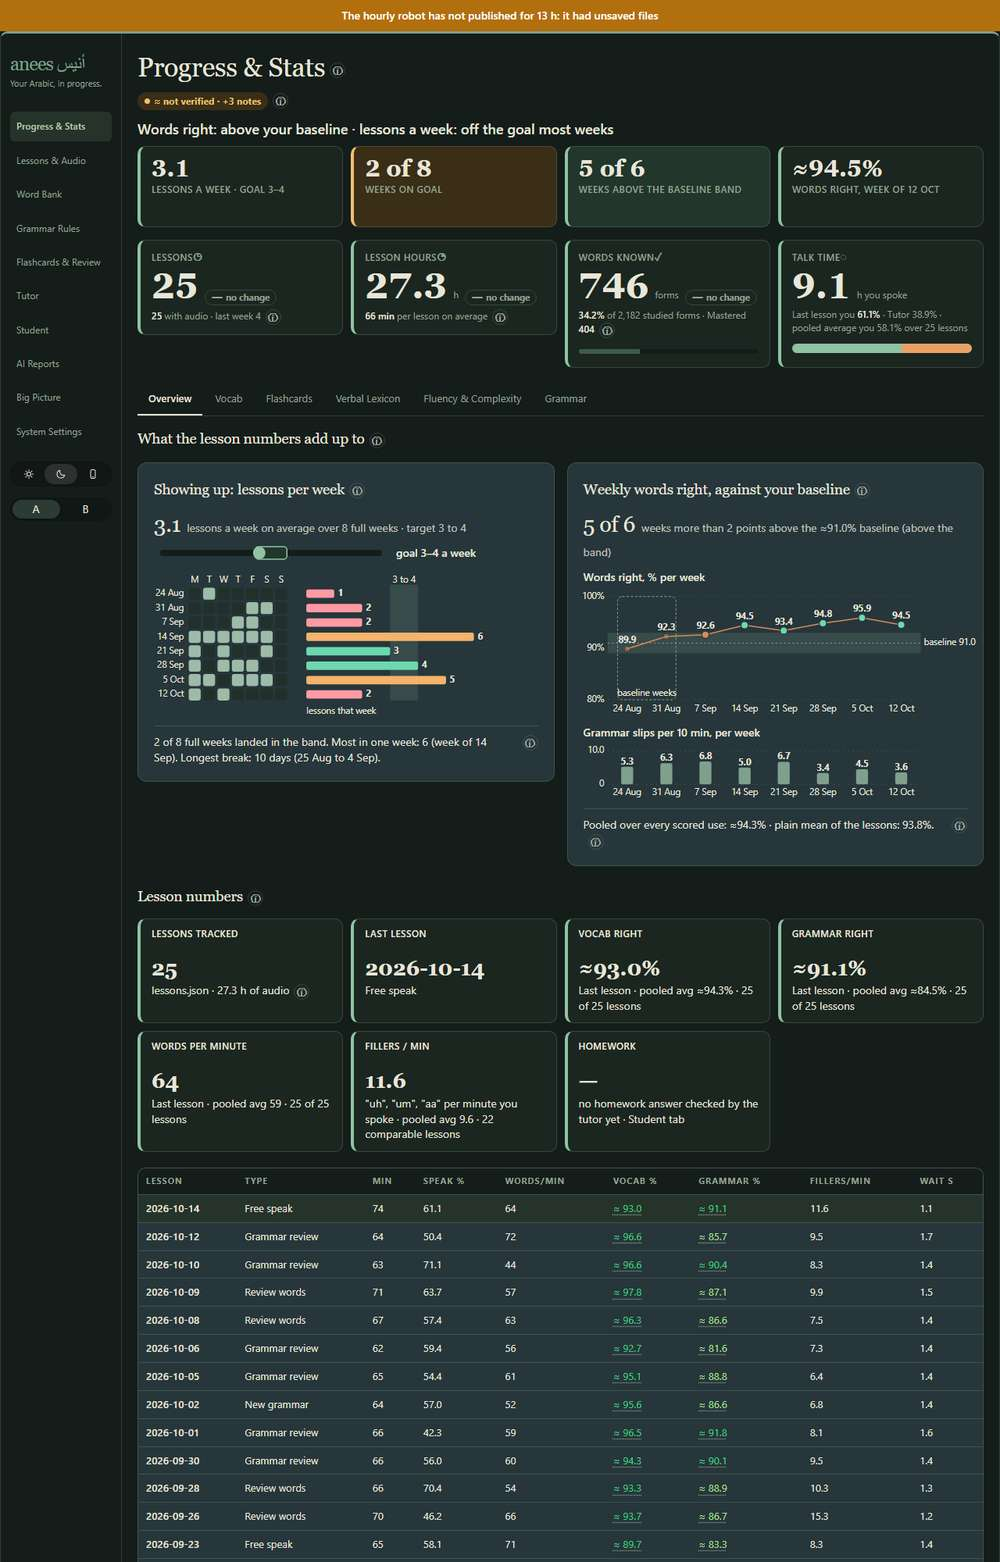
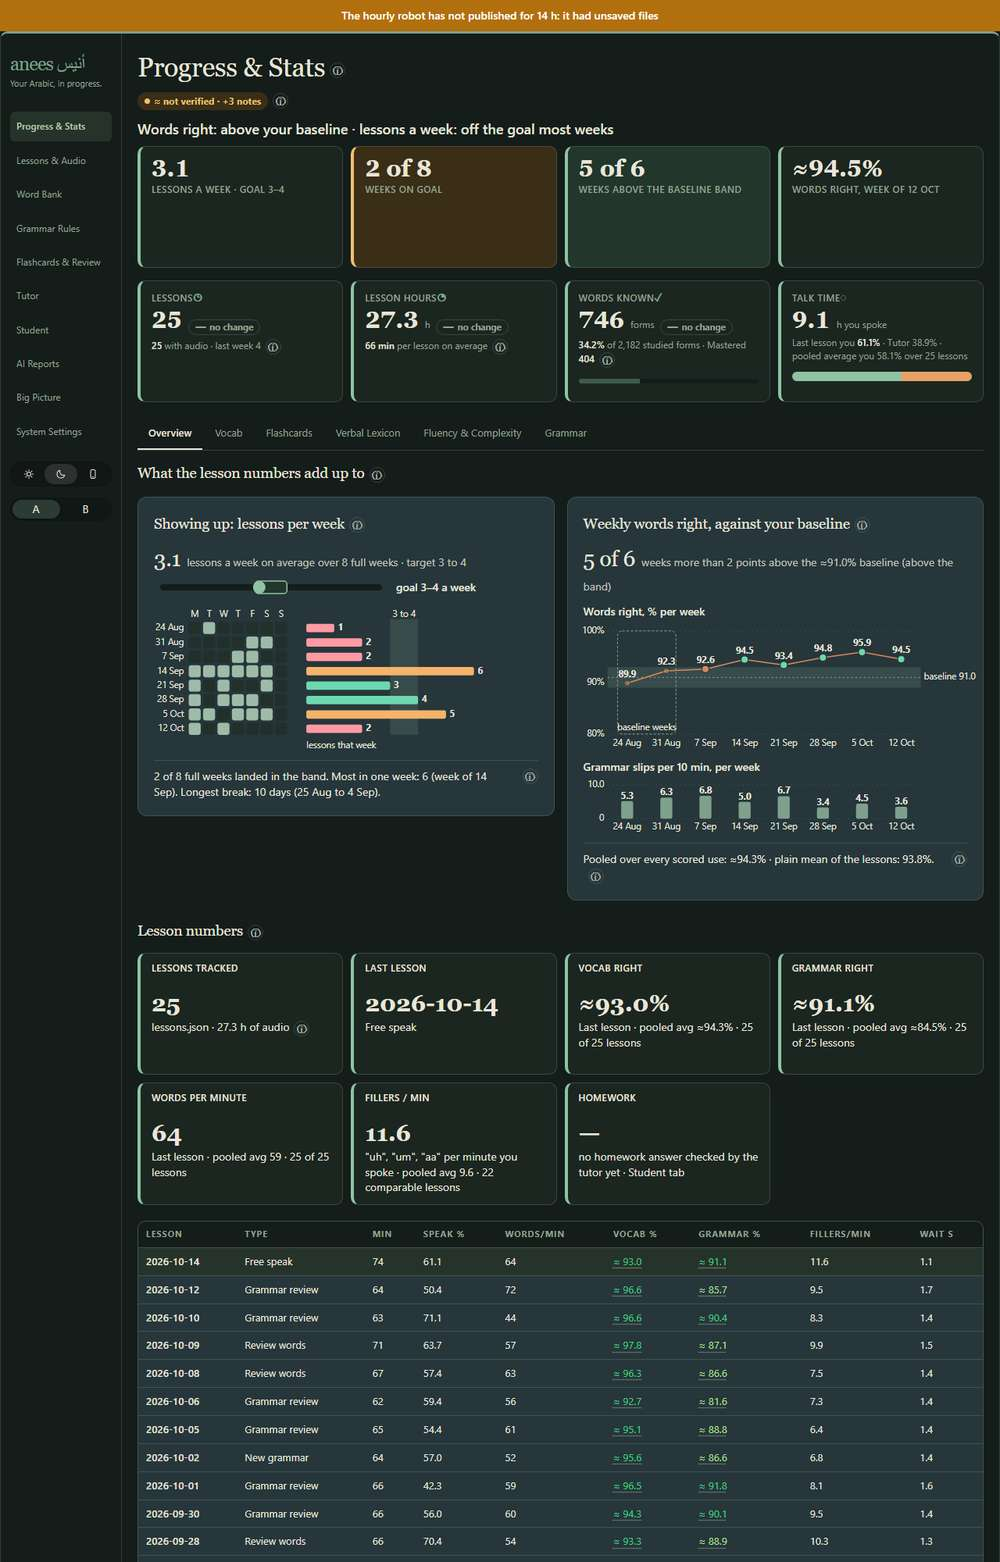
deword: every Progress tile one size (156 px desktop and phone, 30 px numbers); status counts on one line; capture waits for slow live rows

diff --git a/docs/js/vocabulary-progress.js b/docs/js/vocabulary-progress.js
@@ -102,7 +102,7 @@ function renderVocab(){
   card({label:'Studied forms',icon:'≣',value:n(v.studied.count),trendHtml:addedTrend,sub:v.studied.documentRows?`<b>${n(v.studied.documentRows)}</b> words in the tutor's list · verb tenses and plurals counted separately`:'Vocabulary list not synced',href:'word-bank.html',title:'Open Word Bank'}),
   card({label:'Mastered',icon:'★',value:n(v.mastered.count),trendHtml:trend(v.mastered.trend,` ${periodLabel}`),sub:`<b>${pct(v.mastered.pct)}</b> of studied forms · <b>${pct(v.mastered.pctExercised)}</b> of the ${n(v.mastered.exercised)} forms any lesson has used<div class="vp-card-status"><span>Good <b>${n(s.Good)}</b></span><span>Shaky <b>${n(s.Shaky)}</b></span><span>Wrong <b>${n(s.Wrong)}</b></span><span>Not yet checked <b>${n(s.Untested)}</b></span></div>`,href:'word-bank.html?status=Mastered',title:`Open Word Bank · Mastered. The second share leaves out the ${n(v.studied.count-v.mastered.exercised)} slots no lesson has used.`}),
   card({label:'Words per lesson',icon:'∿',value:v.perLesson.avg===null?'—':n(v.perLesson.avg),trendHtml:plTrend,sub:v.perLesson.peak?`Peak <b>${n(v.perLesson.peak.count)}</b> on ${esc(v.perLesson.peak.date)} · distinct forms you said, ${n(v.perLesson.lessons)} lessons`:'No scored lessons in this period',href:'word-bank.html?sort=recent',title:'Open Word Bank · most recent first'}),
-  card({label:'Correct vs slips',icon:'◑',value:pctA(v.ratio.rate),trendHtml:rTrend,sub:v.ratio.total?`<b>${n(v.ratio.correct)}</b> correct · <b>${n(v.ratio.hinted)}</b> hinted · <b>${n(v.ratio.wrong)}</b> wrong — of the words you attempted from the tutor's list, hints counted as slips<br>Same attempts as the Lessons page, audit slips included; its <b>Vocab %</b> counts a hint as half right`:'No scored attempts in this period',bar:v.ratio.total?`<div class="vp-card-bar"><span style="width:${v.ratio.correct/v.ratio.total*100}%;background:var(--ab-green)"></span><span style="width:${v.ratio.hinted/v.ratio.total*100}%;background:var(--ab-orange)"></span><span style="width:${v.ratio.wrong/v.ratio.total*100}%;background:var(--ab-red)"></span></div>`:'',href:'word-bank.html?status=Shaky,Wrong',title:"Full-credit attempts ÷ all scored attempts on words from the tutor's list, hints counted as slips. Same attempts as the Lessons page (the lesson audit's word slips are in the Word Bank evidence since 2026-09-29); the Overview's Vocab % counts a hint as half right instead. Opens Word Bank · Shaky + Wrong. "+whyA()})
+  card({label:'Correct vs slips',icon:'◑',value:pctA(v.ratio.rate),trendHtml:rTrend,sub:v.ratio.total?`<b>${n(v.ratio.correct)}</b> correct · <b>${n(v.ratio.hinted)}</b> hinted · <b>${n(v.ratio.wrong)}</b> wrong<details class="dw-info dw-p dw-trim"><summary aria-label="More about this"><span class="dw-i"></span></summary><div>Of the words you attempted from the tutor's list, hints counted as slips. Same attempts as the Lessons page, audit slips included; its <b>Vocab %</b> counts a hint as half right.</div></details>`:'No scored attempts in this period',bar:v.ratio.total?`<div class="vp-card-bar"><span style="width:${v.ratio.correct/v.ratio.total*100}%;background:var(--ab-green)"></span><span style="width:${v.ratio.hinted/v.ratio.total*100}%;background:var(--ab-orange)"></span><span style="width:${v.ratio.wrong/v.ratio.total*100}%;background:var(--ab-red)"></span></div>`:'',href:'word-bank.html?status=Shaky,Wrong',title:"Full-credit attempts ÷ all scored attempts on words from the tutor's list, hints counted as slips. Same attempts as the Lessons page (the lesson audit's word slips are in the Word Bank evidence since 2026-09-29); the Overview's Vocab % counts a hint as half right instead. Opens Word Bank · Shaky + Wrong. "+whyA()})
  ].join('');
 }
 /* ---------- SVG helpers ---------- */

diff --git a/docs/css/dw-progress.css b/docs/css/dw-progress.css
@@ -36,7 +36,7 @@
 
 /* the four top cards and the overview numbers: one big number, short label */
 #anees-bank #vp-top.vp-cards .vp-num, #anees-bank #vp-vocab .vp-num, #anees-bank .fp-tab .vp-num {
-  font: 600 var(--dw-big, 42px)/1.05 var(--sabz-font-serif, Georgia, serif); font-variant-numeric: tabular-nums lining-nums; }
+  font: 600 var(--tile-num, 30px)/1.08 var(--sabz-font-serif, Georgia, serif); font-variant-numeric: tabular-nums lining-nums; }
 #anees-bank .vp-card { position: relative; }
 #anees-bank .vp-card > details.dw-p:not([open]), #anees-bank #ov-metrics .ab-metric > details.dw-p:not([open]) {
   position: absolute; right: 10px; bottom: 10px; margin: 0; }
@@ -47,7 +47,7 @@
 #anees-bank .dw-link a { color: var(--dw-a1); }
 #anees-bank .vp-card > details.dw-p > summary { margin-left: 0; }
 #anees-bank .vp-card-status { margin-top: 6px; }
-#anees-bank #ov-metrics .ab-number { font: 600 clamp(20px, 2.1vw, 28px)/1.1 var(--sabz-font-serif, Georgia, serif); letter-spacing: 0; white-space: nowrap; }
+#anees-bank #ov-metrics .ab-number { font: 600 var(--tile-num, 30px)/1.08 var(--sabz-font-serif, Georgia, serif); letter-spacing: 0; white-space: nowrap; }
 #anees-bank #ov-metrics .ab-metric { position: relative; }
 #anees-bank #ov-metrics .ab-metric > details.dw-p { display: block; margin-top: 4px; }
 #anees-bank #ov-metrics .ab-metric > details.dw-p > summary { margin-left: 0; }
@@ -61,8 +61,6 @@
   font-family: var(--sabz-font-sans, system-ui); font-weight: 400; }
 
 @media (max-width: 600px) {
-  #anees-bank #vp-top.vp-cards .vp-num, #anees-bank #vp-vocab .vp-num { font-size: 34px; }
-  #anees-bank #ov-metrics .ab-number { font-size: 24px; }
   #anees-bank #ov-metrics.ab-metrics { grid-template-columns: repeat(2, minmax(0, 1fr)); }
   #anees-bank #ov-metrics .ab-metric-label { min-height: 0; }
   #anees-bank #vp-top.vp-cards, #anees-bank #vp-vocab.vp-cards { grid-template-columns: repeat(2, minmax(0, 1fr)); gap: 8px; }
@@ -362,3 +360,15 @@ html[data-look="kurz"] #anees-bank .dw-startlink { background: var(--kz-yellow);
 /* takeaway tiles: on-goal tiles wash green, off-goal tiles wash amber */
 #anees-bank #ov2 .ov2-verdict .dw-big.dw-ok { background: var(--dw-ok-fill); border-left-color: var(--dw-ok); }
 #anees-bank #ov2 .ov2-verdict .dw-big.dw-warn { background: var(--dw-warn-fill); border-left-color: var(--dw-warn); }
+
+/* Medi 2026-10-22 "the tile sizes dont match on progress": every tile on this page is one size in Look A,
+   whatever it holds (big-number verdict, summary card, lesson-number tile, fluency and grammar tiles). */
+html[data-look="flat"] #anees-bank.vp-sabz { --tile-h: 156px; }
+html[data-look="flat"] #anees-bank.vp-sabz :is(.dw-big, .fu-tile, .gu-tile, .fl-tile, .vu-tile, .ab-metric, .vp-card) { height: auto; min-height: var(--tile-h); }
+@media (max-width: 600px) {
+  /* phone: the summary cards carry two lines of sub-numbers, so they take the full width; every tile keeps one height */
+  html[data-look="flat"] #anees-bank.vp-sabz { --tile-h: 156px; }
+  html[data-look="flat"] #anees-bank.vp-sabz :is(#vp-top, #vp-vocab, .vp-cards) { grid-template-columns: 1fr; }
+}
+html[data-look="flat"] #anees-bank.vp-sabz .vp-card-status { display: flex; flex-wrap: wrap; gap: 0 10px; margin-top: 4px; }
+html[data-look="flat"] #anees-bank.vp-sabz .vp-card-status > span { display: inline; }

diff --git a/docs/deword-gallery.html b/docs/deword-gallery.html
@@ -57,14 +57,14 @@ figure img{display:block;width:100%;height:auto;max-height:620px;object-fit:cove
 <div class="wrap">
 <h1>De-word gallery</h1>
 <p class="sub">Preview branch <b>claude/deword-overnight</b> · nothing is live. Look A picked for every page (Medi 2026-10-22). Data back on screen. Grades (Claude · GPT-6 Astra): add · crucial · pictures · modes · look.</p>
-<div class="total"><b>58,273</b><span>→</span><b class="after">61,067</b><small>words on the 15 pages</small></div>
+<div class="total"><b>58,273</b><span>→</span><b class="after">61,064</b><small>words on the 15 pages</small></div>
 <div class="bar" role="toolbar" aria-label="Screenshot view">
 <div class="seg" data-k="theme"><button id="sw-light" data-v="light" aria-pressed="true">Light</button><button id="sw-dark" data-v="dark" aria-pressed="false">Dark</button></div>
 <div class="seg" data-k="dev"><button id="sw-desk" data-v="desktop" aria-pressed="true">Desktop</button><button id="sw-phone" data-v="phone" aria-pressed="false">Phone</button></div>
 </div>
 <section class="row" id="progress">
 <header><h2>Progress &amp; Stats</h2>
-<div class="words"><b>9580</b><span>→</span><b class="after">5919</b><small>words · 38% fewer</small></div></header>
+<div class="words"><b>9580</b><span>→</span><b class="after">5916</b><small>words · 38% fewer</small></div></header>
 <div class="grades"><div><span class="lk">A</span><span class="chip warn">not all A</span><span class="rnd">final</span><span class="g a" title="Claude: add · crucial · pictures · modes · look"><i>Claude</i><b>AAAAA</b></span><span class="g b" title="GPT-6 Astra: add · crucial · pictures · modes · look"><i>GPT-6 Astra</i><b>BABBA</b></span><span class="g fail" title="Gemini 3.8 Flash: add · crucial · pictures · modes · look"><i>Gemini 3.8 Flash</i><b>—</b></span></div></div>
 <div class="shots"><figure><figcaption>Before</figcaption><img loading="lazy" data-page="progress" data-state="before" src="deword/progress-before-light-desktop.jpg" alt="Progress &amp; Stats, Before"></figure><figure><figcaption>Look A · flat</figcaption><img loading="lazy" data-page="progress" data-state="flat" src="deword/progress-flat-light-desktop.jpg" alt="Progress &amp; Stats, Look A · flat"></figure></div></section>
 <section class="row" id="ai-reports">

diff --git a/docs/js/build.js b/docs/js/build.js
@@ -1,1 +1,1 @@
-window.ANEES_BUILD='20261022-082814-bd2657d';
+window.ANEES_BUILD='20261022-222120-928a922';

diff --git a/scripts/deword_capture.py b/scripts/deword_capture.py
@@ -11,7 +11,7 @@ For each page: serve docs/ locally, load it in Playwright, click through every t
 Outside requests are blocked, except GET reads of the app's own Supabase rows (no writes).
 Nothing is sent anywhere.
 """
-import argparse, functools, http.server, json, re, sys, threading
+import argparse, functools, http.server, json, os, re, sys, threading
 from pathlib import Path
 
 ROOT = Path(__file__).resolve().parents[1]
@@ -59,7 +59,7 @@ def _outside(route):
     # Live rows (Big Picture ideas, card sets, homework) come from Supabase: let the page READ them (GET only),
     # so a page is not judged on an empty "Offline" state. Every write (POST/PATCH/DELETE) and every other host is blocked.
     r = route.request
-    if r.url.startswith(SUPA) and r.method in ('GET', 'HEAD', 'OPTIONS'):
+    if r.url.startswith(SUPA) and r.method in ('GET', 'HEAD', 'OPTIONS') and not os.environ.get('DEWORD_OFFLINE'):
         return route.continue_()
     return route.abort()
 
@@ -73,7 +73,9 @@ def open_page(ctx, url, look, theme):
     p.route(re.compile(r'^https?://(?!127\.0\.0\.1).*'), _outside)
     p.goto(url, wait_until='load', timeout=60000)
     try:
-        p.wait_for_load_state('networkidle', timeout=15000)
+        p.wait_for_load_state('networkidle', timeout=60000)
+        # pages that hold their content until the live rows arrive (Progress: #vp-content)
+        p.wait_for_function("!document.getElementById('vp-content') || !document.getElementById('vp-content').hidden", timeout=60000)
     except Exception:
         pass
     p.wait_for_timeout(1200)
@@ -102,6 +104,10 @@ def capture(out, names, look, shots):
                         continue
                     label = (el.inner_text() or f'tab{i}').strip()[:40] or f'tab{i}'
                     el.click(timeout=3000)
+                    try:  # a tab may fetch its own live rows (slow Supabase days: 10-30 s)
+                        p.wait_for_load_state('networkidle', timeout=45000)
+                    except Exception:
+                        pass
                     p.wait_for_timeout(900)
                     t = p.evaluate(TEXT_JS)
                     per[label], wc[label], texts[label] = tokens(t['all']), words(t['vis']), t['vis']
